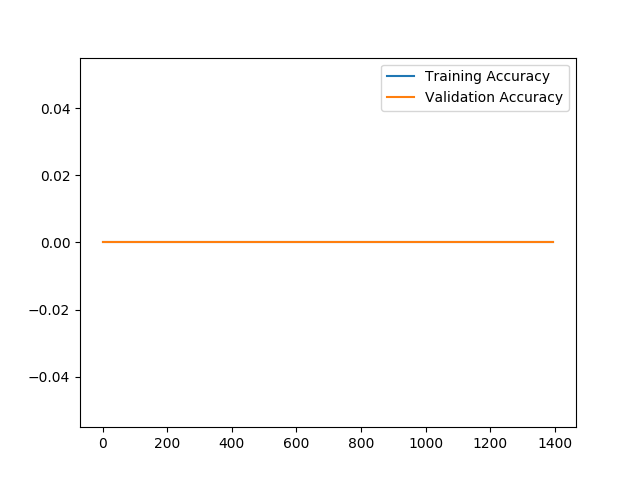
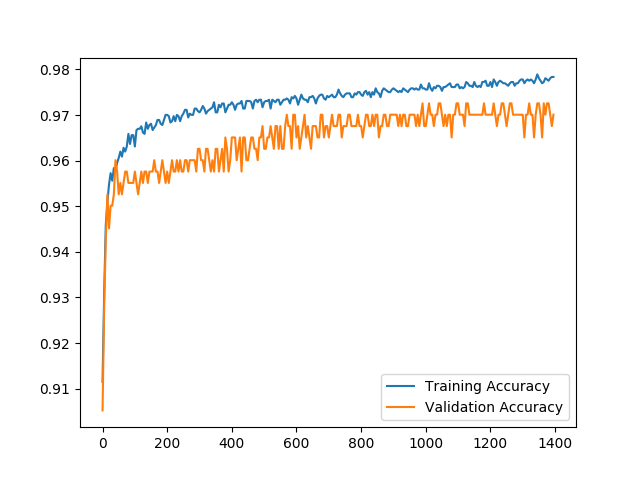
assignment2

diff --git a/assignment1/task4a.py b/assignment1/task4a.py
@@ -14,18 +14,17 @@ def cross_entropy_loss(targets: np.ndarray, outputs: np.ndarray):
     """
     assert targets.shape == outputs.shape,\
         f"Targets shape: {targets.shape}, outputs: {outputs.shape}"
-    ce = targets * np.log(outputs)
-    raise NotImplementedError
-
+    xloss = -np.einsum('ij,ij',targets, np.log(outputs))/(targets.shape[0]*targets.shape[1])
+    return xloss
 
 class SoftmaxModel:
 
     def __init__(self, l2_reg_lambda: float):
         # Define number of input nodes
-        self.I = None
+        self.I = 785
 
         # Define number of output nodes
-        self.num_outputs = None
+        self.num_outputs = 10
         self.w = np.zeros((self.I, self.num_outputs))
         self.grad = None
 
@@ -38,7 +37,11 @@ class SoftmaxModel:
         Returns:
             y: output of model with shape [batch size, num_outputs]
         """
-        return None
+
+        softmax = lambda z: np.exp(z)/(np.sum(np.exp(z), axis=1).reshape(-1, 1))
+        z = X.dot(self.w)
+        y = softmax(z)
+        return y
 
     def backward(self, X: np.ndarray, outputs: np.ndarray, targets: np.ndarray) -> None:
         """
@@ -53,6 +56,8 @@ class SoftmaxModel:
         assert self.grad.shape == self.w.shape,\
              f"Grad shape: {self.grad.shape}, w: {self.w.shape}"
 
+        self.grad = -(1/self.num_outputs)*X.T.dot((targets-outputs))/(X.shape[0])
+
     def zero_grad(self) -> None:
         self.grad = None
 
@@ -65,17 +70,23 @@ def one_hot_encode(Y: np.ndarray, num_classes: int):
     Returns:
         Y: shape [Num examples, num classes]
     """
-    raise NotImplementedError
+
+    # initializing an array of zeros with the right dimentions
+    one_hot_Y = np.zeros((Y.shape[0], num_classes), dtype=int)
+    # using arrange to set the right entries to one.
+    one_hot_Y[np.arange(Y.shape[0]), Y[:,0]] = 1
+
+    return one_hot_Y
 
 
 def gradient_approximation_test(model: SoftmaxModel, X: np.ndarray, Y: np.ndarray):
     """
-        Numerical approximation for gradients. Should not be edited. 
+        Numerical approximation for gradients. Should not be edited.
         Details about this test is given in the appendix in the assignment.
     """
     epsilon = 1e-2
     for i in range(model.w.shape[0]):
-        for j in range(model.w.shape[1]):    
+        for j in range(model.w.shape[1]):
             orig = model.w[i, j].copy()
             model.w[i, j] = orig + epsilon
             logits = model.forward(X)
@@ -109,7 +120,7 @@ if __name__ == "__main__":
     Y_train = one_hot_encode(Y_train, 10)
     assert X_train.shape[1] == 785,\
         f"Expected X_train to have 785 elements per image. Shape was: {X_train.shape}"
-    
+
     # Simple test for forward pass. Note that this does not cover all errors!
     model = SoftmaxModel(0.0)
     logits = model.forward(X_train)

diff --git a/assignment1/task2.py b/assignment1/task2.py
@@ -16,7 +16,10 @@ def calculate_accuracy(X: np.ndarray, targets: np.ndarray, model: BinaryModel) -
     """
     # Task 2c
     accuracy = 0.0
+    logits = model.forward(X)
+    accuracy = (np.count_nonzero(np.abs(logits-targets) < 0.5))/X.shape[0]
     return accuracy
+
 
 
 def train(
